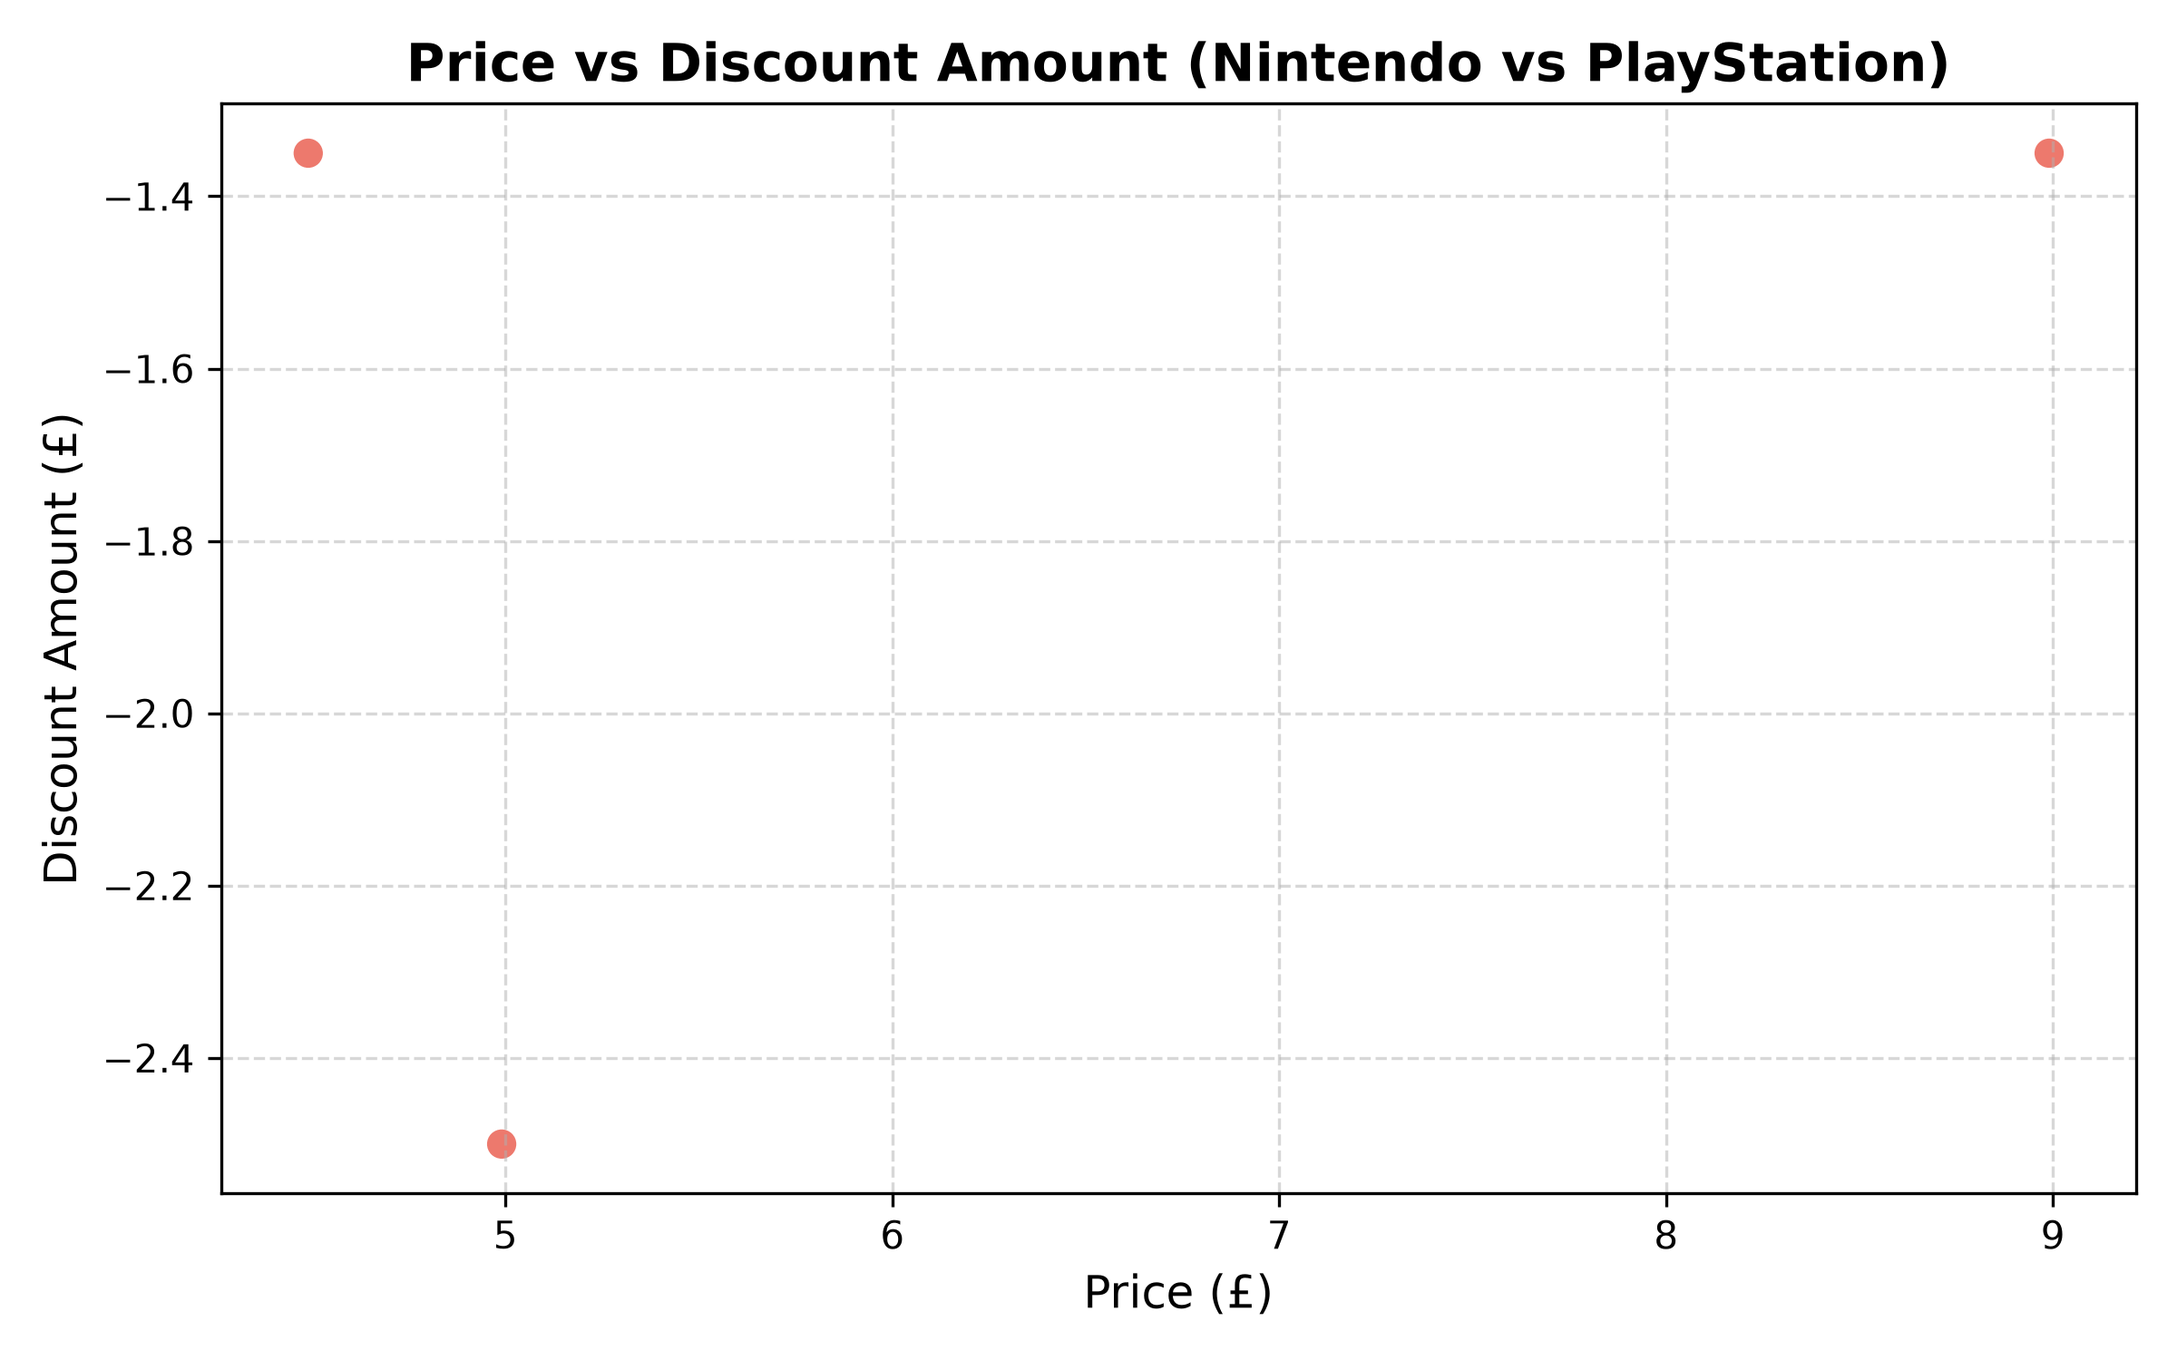
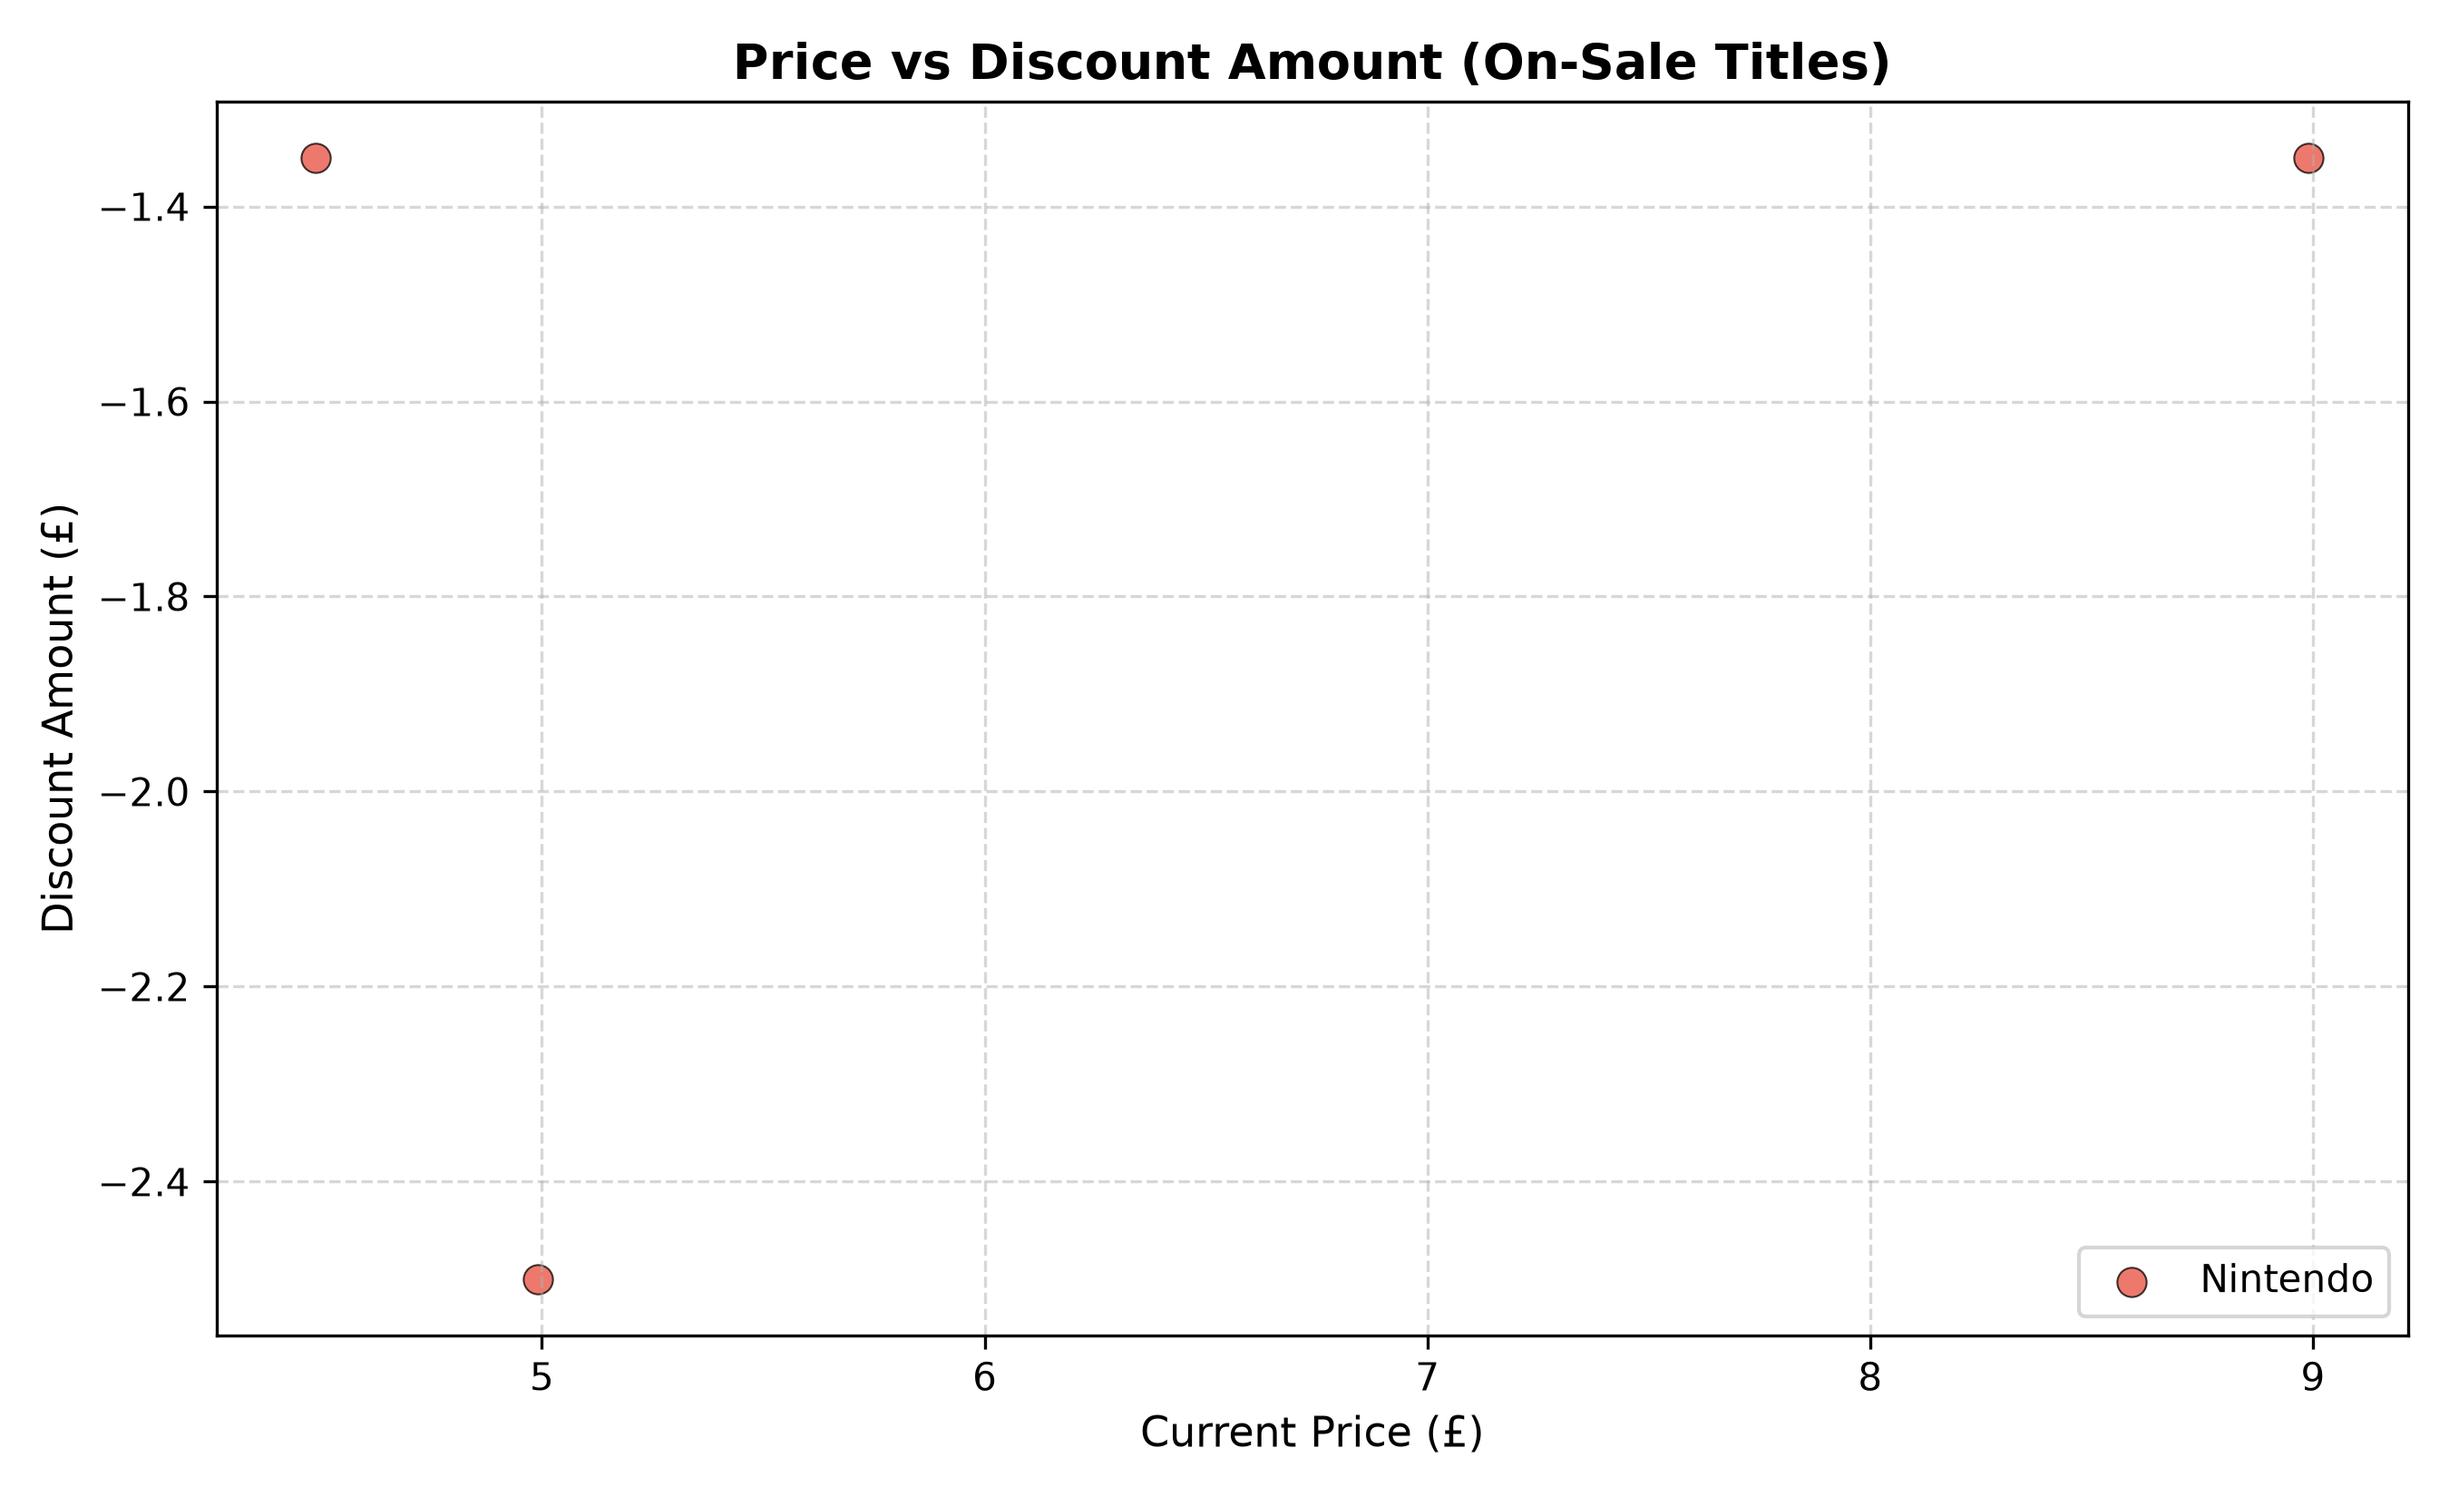
feat: added price analysis plot and updated price vs discount plot

diff --git a/src/visualiser.py b/src/visualiser.py
@@ -27,35 +27,96 @@ def plot_platform_distribution(df: pd.DataFrame, output_dir: str = "plots") -> s
     logger.info(f"Saved platform distribution plot to {output_path}")
     return output_path
 
+def plot_price_analysis(df: pd.DataFrame, output_dir: str = "plots") -> str:
+    """Generates the 2-subplot comparison: Ranked Price Index and Price Distribution."""
+    os.makedirs(output_dir, exist_ok=True)
+    output_path = os.path.join(output_dir, "price_analysis.png")
+    
+    logger.info("Generating ranked price and distribution analysis plot.")
+    
+    ps_df = df[df["source"] == "PlayStation"].dropna(subset=["price"]).sort_values("price").reset_index(drop=True)
+    nt_df = df[df["source"] == "Nintendo"].dropna(subset=["price"]).sort_values("price").reset_index(drop=True)
+
+    ps_df["price_rank"] = ps_df.index
+    nt_df["price_rank"] = nt_df.index
+
+    plt.figure(figsize=(14, 6))
+
+    # Subplot 1: Ranked Price Index Scatter
+    plt.subplot(1, 2, 1)
+    if not ps_df.empty:
+        plt.scatter(ps_df["price_rank"], ps_df["price"], label="PlayStation", alpha=0.75, color="#2980b9", s=40)
+    if not nt_df.empty:
+        plt.scatter(nt_df["price_rank"], nt_df["price"], label="Nintendo", alpha=0.75, color="#e74c3c", s=40)
+
+    plt.title("Game Prices by Ranked Index (PS vs Nintendo)", fontsize=13, fontweight="bold")
+    plt.xlabel("Price Rank (Low to High)", fontsize=11)
+    plt.ylabel("Price (£)", fontsize=11)
+    plt.grid(True, linestyle="--", alpha=0.5)
+    plt.legend()
+
+    # Subplot 2: Price Distribution Histogram
+    plt.subplot(1, 2, 2)
+    if not ps_df.empty:
+        plt.hist(ps_df["price"], bins=15, alpha=0.6, label="PlayStation", color="#2980b9", edgecolor="black")
+    if not nt_df.empty:
+        plt.hist(nt_df["price"], bins=15, alpha=0.6, label="Nintendo", color="#e74c3c", edgecolor="black")
+
+    plt.title("Price Distribution Comparison", fontsize=13, fontweight="bold")
+    plt.xlabel("Price (£)", fontsize=11)
+    plt.ylabel("Frequency", fontsize=11)
+    plt.grid(True, linestyle="--", alpha=0.5)
+    plt.legend()
+
+    plt.tight_layout()
+    plt.savefig(output_path, dpi=300)
+    plt.close()
+    logger.info(f"Saved price analysis plot to {output_path}")
+    return output_path
+
 def plot_price_vs_discount(df: pd.DataFrame, output_dir: str = "plots") -> str:
-    """Generates and saves a scatter plot of Price vs. Discount Amount."""
+    """Generates and saves a scatter plot of Price vs. Discount Amount for discounted games."""
     os.makedirs(output_dir, exist_ok=True)
     output_path = os.path.join(output_dir, "price_vs_discount.png")
     
     logger.info("Generating price vs. discount scatter plot.")
     
-    # Filter rows with price data
-    plot_data = df.dropna(subset=["price"]).copy()
+    # Filter rows that have both a price and a discount
+    discounted_df = df.dropna(subset=["price", "discount_amount"]).copy()
     
-    colors = plot_data["source"].map({
-        "Nintendo": "#e74c3c",      # Red
-        "PlayStation": "#2980b9"   # Blue
-    }).fillna("gray")
+    ps_deals = discounted_df[discounted_df["source"] == "PlayStation"]
+    nt_deals = discounted_df[discounted_df["source"] == "Nintendo"]
     
-    plt.figure(figsize=(8, 5))
-    plt.scatter(
-        plot_data["price"],
-        plot_data["discount_amount"],
-        c=colors,
-        alpha=0.75,
-        edgecolors="none",
-        s=60
-    )
+    plt.figure(figsize=(9, 5.5))
     
-    plt.title("Price vs Discount Amount (Nintendo vs PlayStation)", fontsize=14, fontweight="bold")
-    plt.xlabel("Price (£)", fontsize=12)
-    plt.ylabel("Discount Amount (£)", fontsize=12)
+    if not ps_deals.empty:
+        plt.scatter(
+            ps_deals["price"],
+            ps_deals["discount_amount"],
+            c="#2980b9",
+            label="PlayStation",
+            alpha=0.75,
+            edgecolors="black",
+            linewidths=0.5,
+            s=60
+        )
+    if not nt_deals.empty:
+        plt.scatter(
+            nt_deals["price"],
+            nt_deals["discount_amount"],
+            c="#e74c3c",
+            label="Nintendo",
+            alpha=0.75,
+            edgecolors="black",
+            linewidths=0.5,
+            s=60
+        )
+    
+    plt.title("Price vs Discount Amount (On-Sale Titles)", fontsize=13, fontweight="bold")
+    plt.xlabel("Current Price (£)", fontsize=11)
+    plt.ylabel("Discount Amount (£)", fontsize=11)
     plt.grid(True, linestyle="--", alpha=0.5)
+    plt.legend()
     plt.tight_layout()
     
     plt.savefig(output_path, dpi=300)

diff --git a/src/main.py b/src/main.py
@@ -15,6 +15,7 @@ from src.processor import (
 )
 from src.visualiser import (
     plot_platform_distribution,
+    plot_price_analysis,
     plot_price_vs_discount
 )
 
@@ -59,6 +60,7 @@ def run_pipeline(use_cache: bool = False):
 
     # 4. Generate Visualizations
     plot_platform_distribution(df_final)
+    plot_price_analysis(df_final)
     plot_price_vs_discount(df_final)
     logger.info("Pipeline executed successfully!")
 
